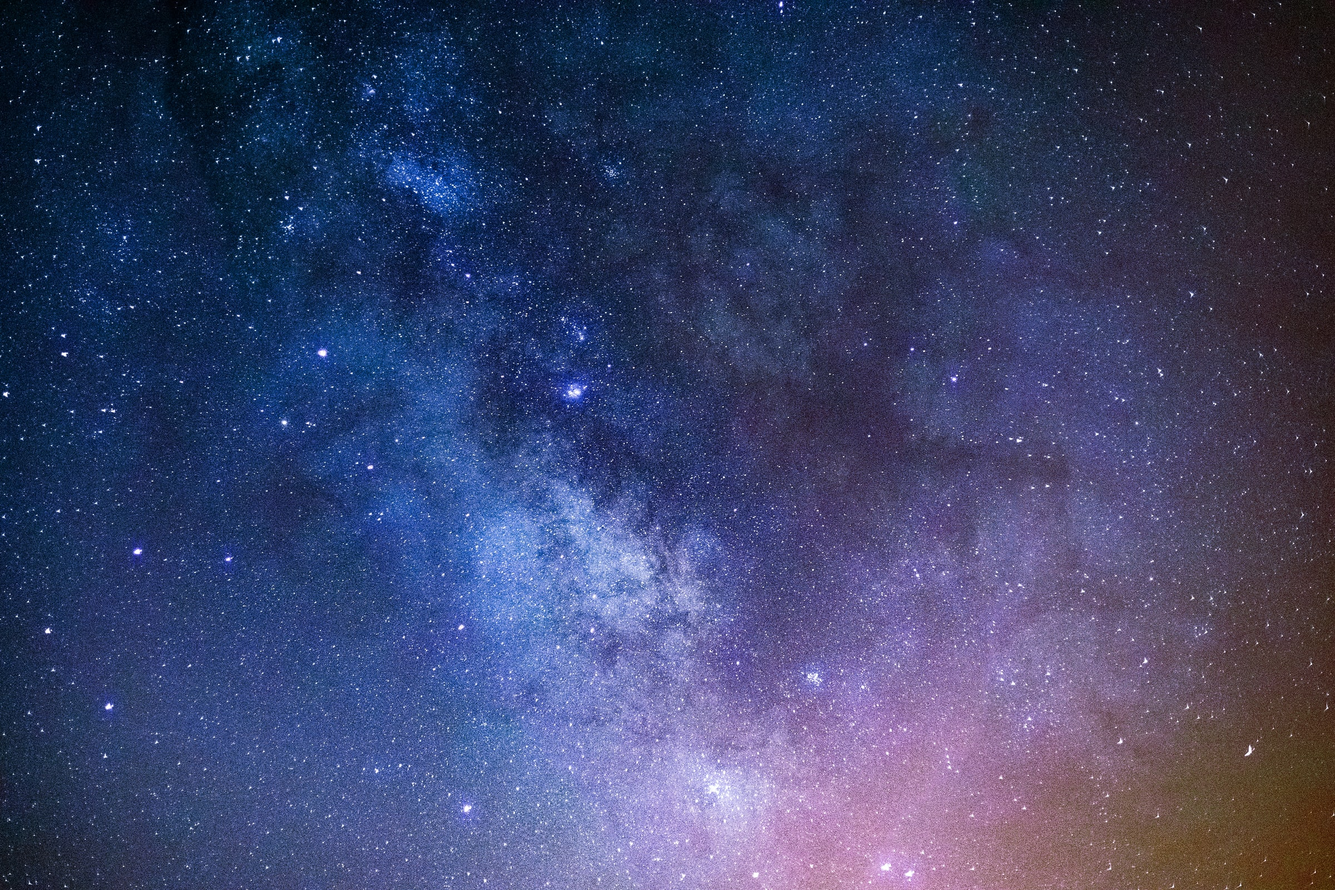
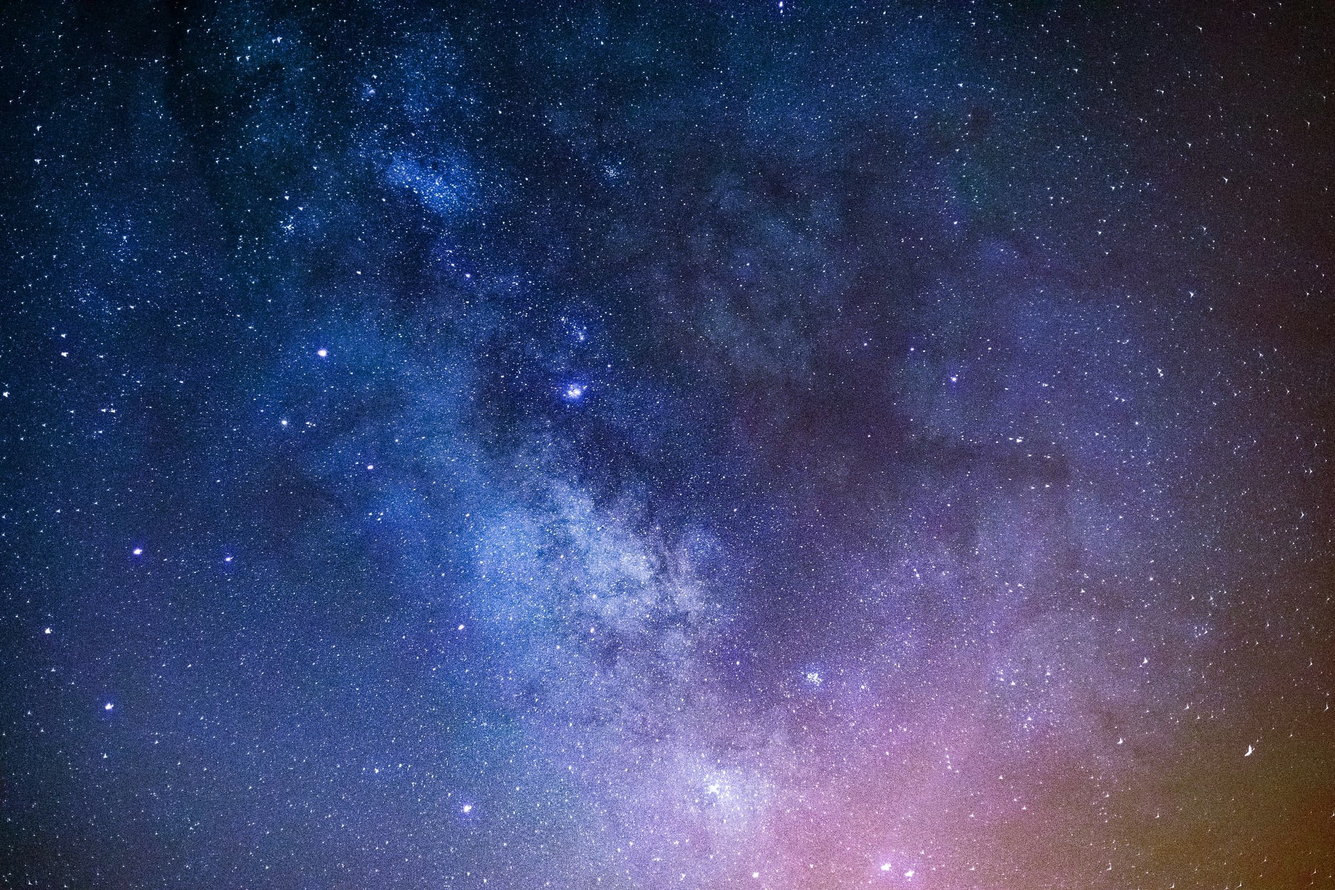
add bg animation

diff --git a/src/styles/_temp.scss b/src/styles/_temp.scss
@@ -2,17 +2,30 @@ body {
     font-family: 'Roboto', sans-serif;
     color: #FFF;
     text-align: center;
+    overflow: hidden;
+    position: relative;
+}
+#bg-image { 
+    background-image: url(../assets/images/space-bg.jpg);
+    background-size: cover;
+    background-repeat: no-repeat;
+    background-position: center;
+    width: 110%;
+    height:110%;
+    z-index: 1;
+    top: 0;
+    left: 0;
+    position: absolute;
     &:before { 
-		content: '';
-		position: absolute;
-		top: 0;
-		left: 0;
-		width: 100%;
-		height: 100%;
-		background: url(../assets/images/space-bg.jpg) no-repeat center;
-		background-size: cover;
-		opacity: .5;
-	}
+        content: '';
+        position: absolute;
+        top: 0;
+        left: 0;
+        width: 100%;
+        height: 100%;
+        background: #000;
+        opacity: .5;
+    }
 }
 .flex {
     display: flex;
@@ -21,6 +34,10 @@ body {
     flex-direction: column;
     height: 100vh;
     width: 100%;
+    z-index: 2;
+    position: absolute;
+    pointer-events: none;
+    white-space: nowrap;
 }
 .logo { 
     position: relative;

diff --git a/templates/temp-home.php b/templates/temp-home.php
@@ -120,7 +120,21 @@
   </div>
 </div>
 </main>
+<div id="bg-image"></div>
+<!-- bg animation -->
+<script>
+const bg = document.querySelector('#bg-image');
+const windowWidth = window.innerWidth / 5;
+const windowHeight = window.innerHeight / 5 ;
 
+bg.addEventListener('mousemove', (e) => {
+  const mouseX = e.clientX / windowWidth;
+  const mouseY = e.clientY / windowHeight;
+  
+  bg.style.transform = `translate3d(-${mouseX}%, -${mouseY}%, 0)`;
+});
+</script>
+<!-- text animation -->
 <script>
 anime({
   targets: '#amazing path',
